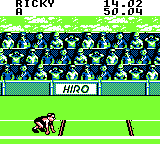
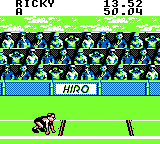
Updated results to commit 19c382c

diff --git a/results.html b/results.html
@@ -2,7 +2,7 @@
 <html>
 <head>
     <meta charset="utf-8" />
-    <title> Sameboy 0.10 prerelease (7a41a9b) automation results</title>
+    <title> Sameboy 0.10 prerelease (19c382c) automation results</title>
     <style type="text/css">
         #wall *, body, html {padding: 0; margin:0;}
         #wall {text-align: center;}
@@ -17,7 +17,7 @@
     </style>
 </head>
 <body>
-<h1> Sameboy 0.10 prerelease (7a41a9b) automation results</h1>
+<h1> Sameboy 0.10 prerelease (19c382c) automation results</h1>
 <p>The first screenshot was taken after 40 seconds of running the game without pressing any button. The second screenshot was taken after 120 seconds, after attempting to start the game by repeatedly pressing Start and A. 2775 out of 2790 games passed.</p>
 <p>Games incompatible with the GameBoy Color are tested in DMG mode</p>
 <h2> Failures </h2>
